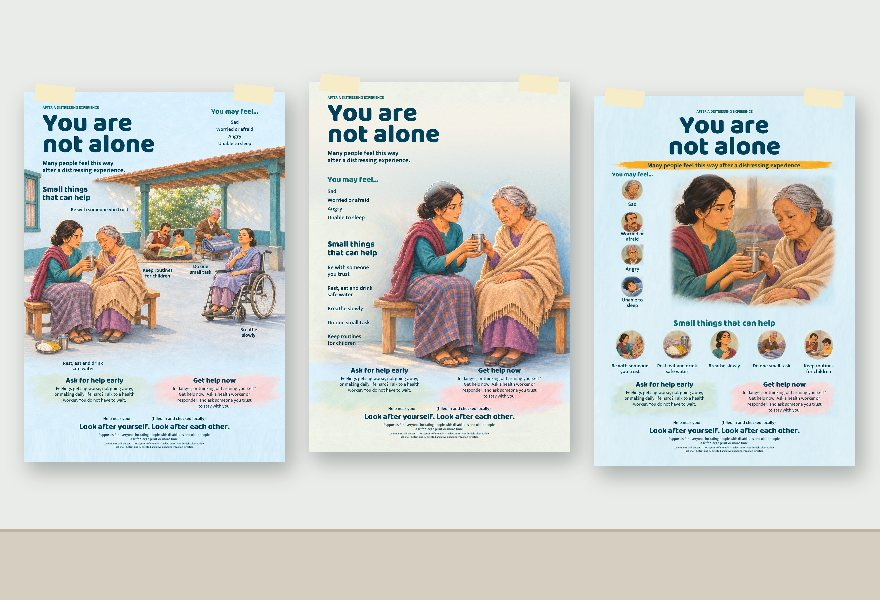
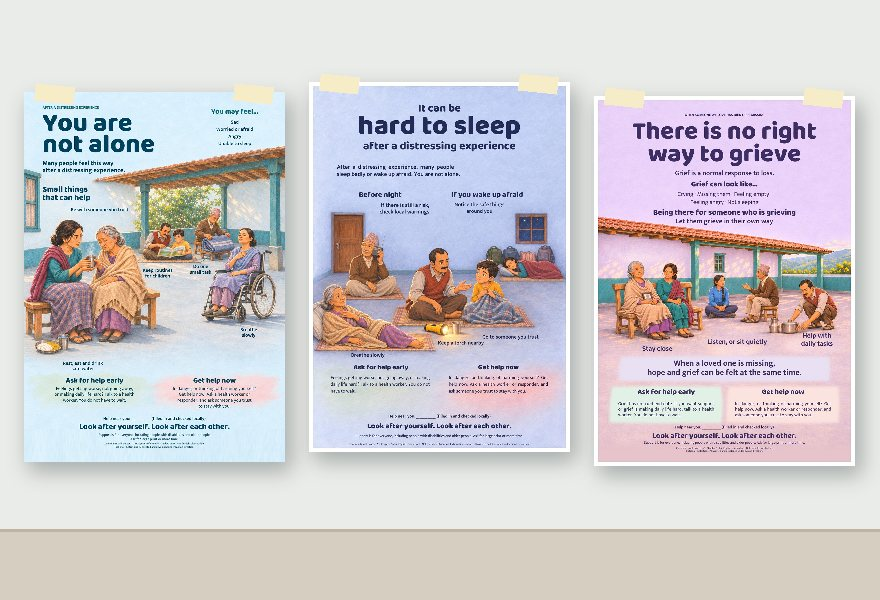
Overview mockups: posters for Chapters 1 to 3 instead of three options of one chapter
Claude-Session: https://claude.ai/code/session_01FeFBNtDnR6Tarxn2mMUM3N

diff --git a/index.html b/index.html
@@ -612,9 +612,9 @@ function overview(){
   </div>
 
   <div class="card"><h3 class="ov-s">Three products work together in every chapter</h3><div class="flow">
-    <div class="p"><img class="ill" src="assets/overview/mock-poster.jpg" alt="The three Chapter 1 poster options, A, B and C, on a wall" width="880" height="600" loading="lazy"><span class="tag">A3 · WALL</span><h4>Poster</h4>Read in seconds: the title and one painted scene. One message, small things to try, and where to get help.</div><div class="arrow">→</div>
+    <div class="p"><img class="ill" src="assets/overview/mock-poster.jpg" alt="Posters for Chapters 1, 2 and 3 on a wall" width="880" height="600" loading="lazy"><span class="tag">A3 · WALL</span><h4>Poster</h4>Read in seconds: the title and one painted scene. One message, small things to try, and where to get help.</div><div class="arrow">→</div>
     <div class="p"><img class="ill" src="assets/overview/mock-leaflet.jpg" alt="Chapter 1 leaflet, folded in three and standing open, with its cover" width="880" height="600" loading="lazy"><span class="tag">A4 · TAKE HOME</span><h4>Leaflet</h4>Continues the same chapter: what people may notice, how to do each small thing, what can make things worse, and when to seek help.</div><div class="arrow">→</div>
-    <div class="p"><img class="ill" src="assets/overview/mock-guide.jpg" alt="Health Talk Guides for Chapters 1, 2 and 3, fanned on a table" width="880" height="600" loading="lazy"><span class="tag">A4 · FACILITATOR</span><h4>Health Talk Guide</h4>A 15-minute session in five steps: welcome, look at the picture together, what helps, when to ask for help, close. Sessions can link through the story: “Do you remember Karuna?”</div></div><p class="small" style="margin:10px 0 0">Examples: the three Chapter 1 poster options, the Chapter 1 leaflet, and the guides for Chapters 1 to 3. Each chapter page shows its own products.</p></div>
+    <div class="p"><img class="ill" src="assets/overview/mock-guide.jpg" alt="Health Talk Guides for Chapters 1, 2 and 3, fanned on a table" width="880" height="600" loading="lazy"><span class="tag">A4 · FACILITATOR</span><h4>Health Talk Guide</h4>A 15-minute session in five steps: welcome, look at the picture together, what helps, when to ask for help, close. Sessions can link through the story: “Do you remember Karuna?”</div></div><p class="small" style="margin:10px 0 0">Examples: posters and guides for Chapters 1 to 3, and the Chapter 1 leaflet. Each chapter page shows its own products.</p></div>
 
   <div class="two"><div class="card"><h3 class="ov-s">Two layers of language</h3><div class="layer" style="background:#e8f4fa;margin-bottom:10px"><b>Poster and leaflet</b><br>Everyday words: “distressing experience”, “common reactions”, “small things that can help”.</div><div class="layer" style="background:#f2eef8"><b>Health Talk Guide</b><br>The word key for facilitators: what the plain words stand for, with clinical terms and sources.</div></div>
    <div class="card"><h3 class="ov-s">How products reach this page</h3><div class="pipe"><div><span class="tag">1</span><b>Draft</b>Made and checked in the working folders</div><div><span class="tag">2</span><b>Quality check</b>Content, safety and design</div><div><span class="tag">3</span><b>Approval</b>Approved by the coordination team</div><div><span class="tag">4</span><b>Posted here</b>For partner review and feedback</div></div></div></div>
